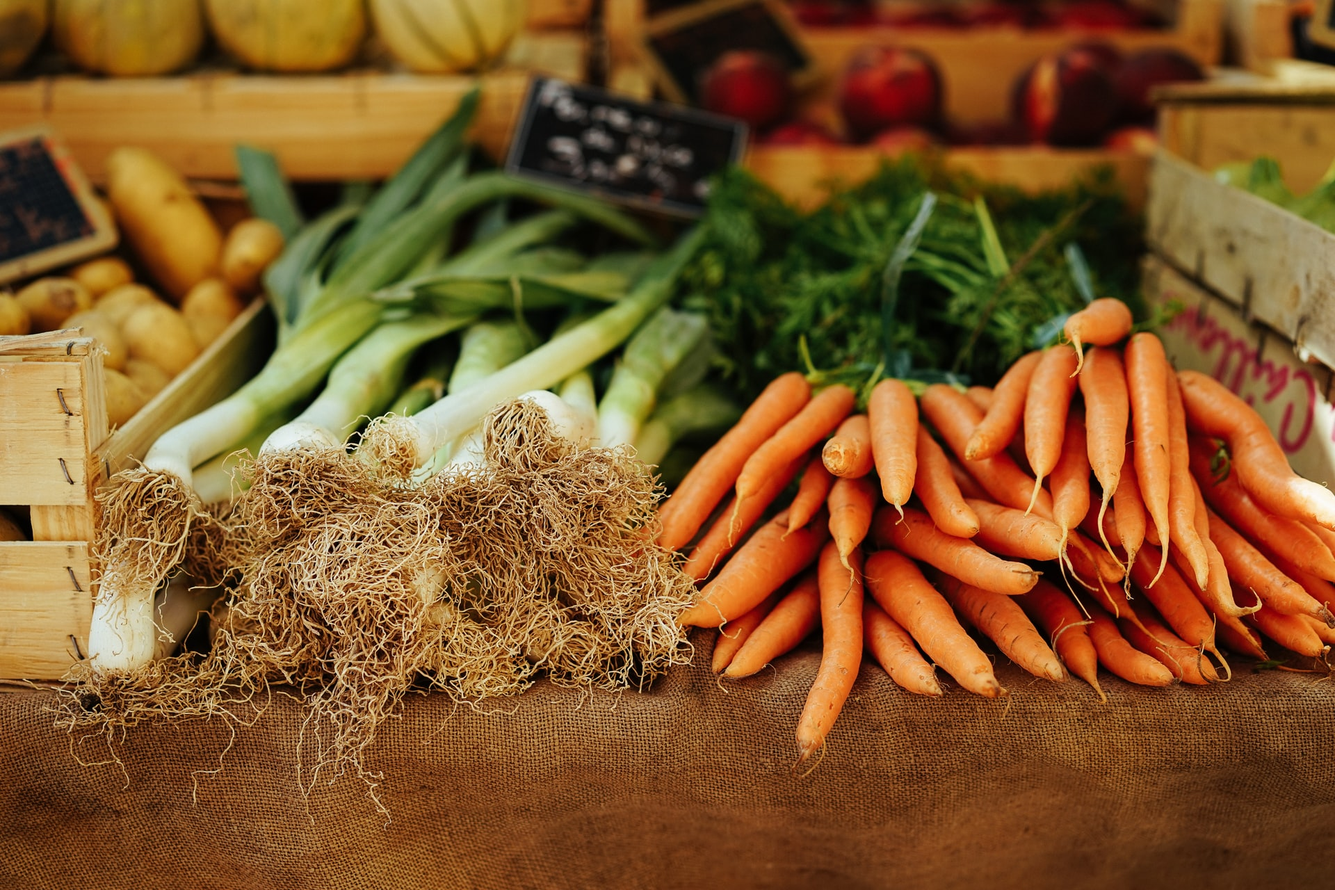
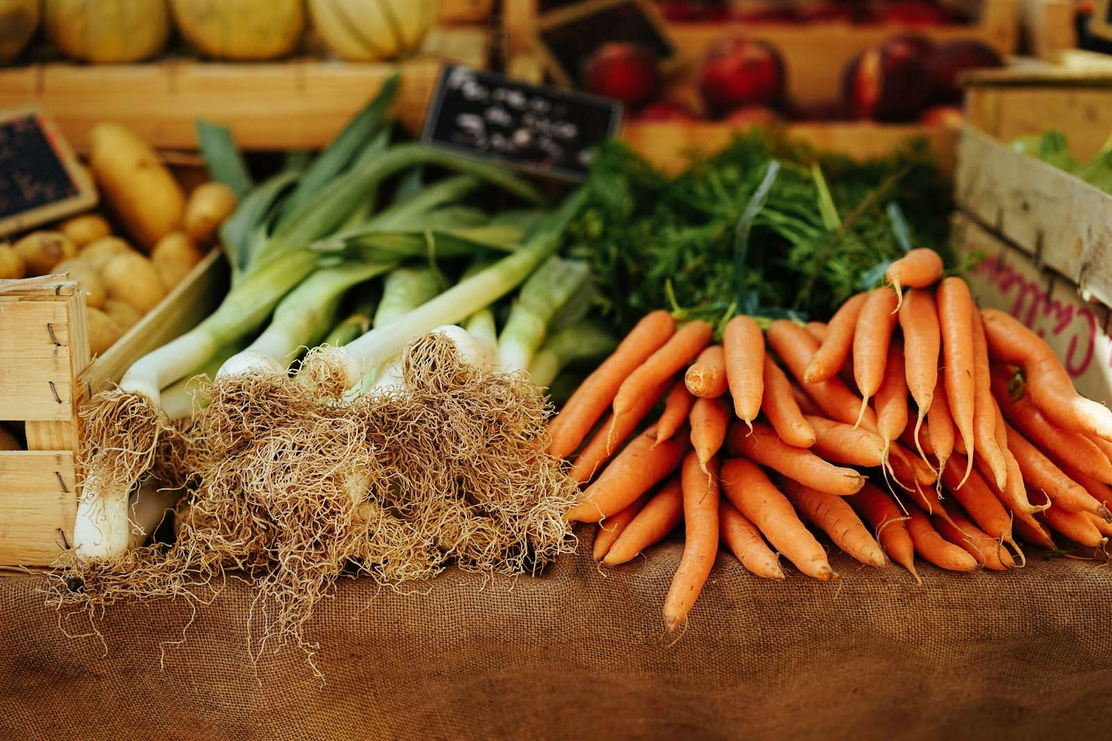
Reduce size of hero image and correct height on desktop when not correcting for the header height

Changed region(s): [[0.0312, 0.4644, 0.5312, 0.8977], [0.0938, 0.5263, 0.125, 0.6191]]

diff --git a/pages/index.vue b/pages/index.vue
@@ -4,6 +4,8 @@
       <img
         src="/food-banner.jpg"
         alt="Farm Foods Delivery To Your Door"
+        width="1600"
+        height="1067"
         class="hero-image"
       />
       <div
@@ -177,6 +179,9 @@ export default {
   }
   @screen lg {
     @apply min-h-screen bg-fixed;
+    > .hero-image {
+      @apply min-h-screen;
+    }
   }
   .overlay {
     background-color: rgba(#000, 0.5);
